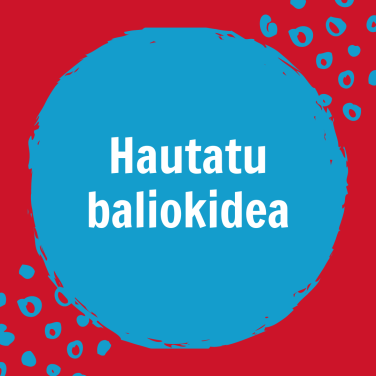
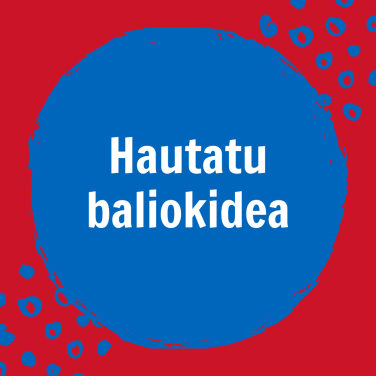
create github pages

diff --git a/assets/mobirise/css/mbr-additional.css b/assets/mobirise/css/mbr-additional.css
@@ -132,7 +132,7 @@ body {
   border-radius: 3px;
 }
 .bg-primary {
-  background-color: #149dcc !important;
+  background-color: #0066bb !important;
 }
 .bg-success {
   background-color: #f7ed4a !important;
@@ -148,8 +148,8 @@ body {
 }
 .btn-primary,
 .btn-primary:active {
-  background-color: #149dcc !important;
-  border-color: #149dcc !important;
+  background-color: #0066bb !important;
+  border-color: #0066bb !important;
   color: #ffffff !important;
 }
 .btn-primary:hover,
@@ -157,14 +157,14 @@ body {
 .btn-primary.focus,
 .btn-primary.active {
   color: #ffffff !important;
-  background-color: #0d6786 !important;
-  border-color: #0d6786 !important;
+  background-color: #003c6e !important;
+  border-color: #003c6e !important;
 }
 .btn-primary.disabled,
 .btn-primary:disabled {
   color: #ffffff !important;
-  background-color: #0d6786 !important;
-  border-color: #0d6786 !important;
+  background-color: #003c6e !important;
+  border-color: #003c6e !important;
 }
 .btn-secondary,
 .btn-secondary:active {
@@ -312,22 +312,22 @@ body {
 .btn-primary-outline,
 .btn-primary-outline:active {
   background: none;
-  border-color: #0b566f;
-  color: #0b566f;
+  border-color: #002e55;
+  color: #002e55;
 }
 .btn-primary-outline:hover,
 .btn-primary-outline:focus,
 .btn-primary-outline.focus,
 .btn-primary-outline.active {
   color: #ffffff;
-  background-color: #149dcc;
-  border-color: #149dcc;
+  background-color: #0066bb;
+  border-color: #0066bb;
 }
 .btn-primary-outline.disabled,
 .btn-primary-outline:disabled {
   color: #ffffff !important;
-  background-color: #149dcc !important;
-  border-color: #149dcc !important;
+  background-color: #0066bb !important;
+  border-color: #0066bb !important;
 }
 .btn-secondary-outline,
 .btn-secondary-outline:active {
@@ -464,7 +464,7 @@ body {
   border-color: #ffffff;
 }
 .text-primary {
-  color: #149dcc !important;
+  color: #0066bb !important;
 }
 .text-secondary {
   color: #cc1429 !important;
@@ -489,7 +489,7 @@ body {
 }
 a.text-primary:hover,
 a.text-primary:focus {
-  color: #0b566f !important;
+  color: #002e55 !important;
 }
 a.text-secondary:hover,
 a.text-secondary:focus {
@@ -547,8 +547,8 @@ a.text-black:focus {
   border-radius: 100px !important;
 }
 .mbr-gallery-filter li.active .btn {
-  background-color: #149dcc;
-  border-color: #149dcc;
+  background-color: #0066bb;
+  border-color: #0066bb;
   color: #ffffff;
 }
 .mbr-gallery-filter li.active .btn:focus {
@@ -565,11 +565,11 @@ a.text-black:focus {
 }
 a,
 a:hover {
-  color: #149dcc;
+  color: #0066bb;
 }
 .mbr-plan-header.bg-primary .mbr-plan-subtitle,
 .mbr-plan-header.bg-primary .mbr-plan-price-desc {
-  color: #b4e6f8;
+  color: #3ca6ff;
 }
 .mbr-plan-header.bg-success .mbr-plan-subtitle,
 .mbr-plan-header.bg-success .mbr-plan-price-desc {
@@ -690,7 +690,7 @@ blockquote {
   padding: 10px 0 10px 20px;
   font-size: 1.09rem;
   position: relative;
-  border-color: #149dcc;
+  border-color: #0066bb;
   border-width: 3px;
 }
 ul,
@@ -779,7 +779,7 @@ pre {
   text-align: center;
   position: relative;
   border: 2px solid #c0a375;
-  border-color: #149dcc;
+  border-color: #0066bb;
   color: #232323;
   cursor: pointer;
 }
@@ -790,7 +790,7 @@ pre {
 }
 .btn-social:hover {
   color: #fff;
-  background: #149dcc;
+  background: #0066bb;
 }
 .btn-social + .btn {
   margin-left: .1rem;
@@ -798,11 +798,11 @@ pre {
 /* Footer */
 .mbr-footer-content li::before,
 .mbr-footer .mbr-contacts li::before {
-  background: #149dcc;
+  background: #0066bb;
 }
 .mbr-footer-content li a:hover,
 .mbr-footer .mbr-contacts li a:hover {
-  color: #149dcc;
+  color: #0066bb;
 }
 .footer3 input[type="email"],
 .footer4 input[type="email"] {
@@ -1384,7 +1384,7 @@ body {
 }
 .jq-selectbox li:hover,
 .jq-selectbox li.selected {
-  background-color: #149dcc;
+  background-color: #0066bb;
   color: #ffffff;
 }
 .jq-selectbox .jq-selectbox__trigger-arrow,
@@ -1397,14 +1397,14 @@ body {
 .jq-selectbox:hover .jq-selectbox__trigger-arrow,
 .jq-number__spin.minus:hover:after,
 .jq-number__spin.plus:hover:after {
-  border-top-color: #149dcc;
-  border-bottom-color: #149dcc;
+  border-top-color: #0066bb;
+  border-bottom-color: #0066bb;
 }
 .xdsoft_datetimepicker .xdsoft_calendar td.xdsoft_default,
 .xdsoft_datetimepicker .xdsoft_calendar td.xdsoft_current,
 .xdsoft_datetimepicker .xdsoft_timepicker .xdsoft_time_box > div > div.xdsoft_current {
   color: #ffffff !important;
-  background-color: #149dcc !important;
+  background-color: #0066bb !important;
   box-shadow: none!important;
 }
 .xdsoft_datetimepicker .xdsoft_calendar td:hover,
@@ -1497,7 +1497,7 @@ body {
 .cid-rwKJmDZ3Hp {
   padding-top: 90px;
   padding-bottom: 90px;
-  background-color: #149dcc;
+  background-color: #0066bb;
 }
 .cid-rwKJmDZ3Hp P {
   color: #767676;

diff --git a/page3.html b/page3.html
@@ -41,7 +41,7 @@
 
 </section>
 
-<section class="engine"><a href="https://mobirise.info/j">website templates</a></section><section class="features17 cid-rwKK7vJP1O" id="features17-f">
+<section class="engine"><a href="https://mobirise.info/n">simple website templates</a></section><section class="features17 cid-rwKK7vJP1O" id="features17-f">
     
     
 
@@ -51,7 +51,7 @@
             <div class="card p-3 col-12 col-md-6 col-lg-2">
                 <div class="card-wrapper">
                     <div class="card-img">
-                        <img src="assets/images/esamoldeak-1-376x376.png" alt="Mobirise" title="">
+                        <img src="assets/images/esamoldeak-2-376x376.png" alt="Mobirise" title="">
                     </div>
                     <div class="card-box">
                         <h4 class="card-title pb-3 mbr-fonts-style display-7">____________________________</h4>
@@ -67,7 +67,7 @@
             <div class="card p-3 col-12 col-md-6 col-lg-2">
                 <div class="card-wrapper">
                     <div class="card-img">
-                        <img src="assets/images/definizioak-1-376x376.png" alt="Mobirise" title="">
+                        <img src="assets/images/definizioak-2-376x376.png" alt="Mobirise" title="">
                     </div>
                     <div class="card-box">
                         <h4 class="card-title pb-3 mbr-fonts-style display-7">
@@ -81,7 +81,7 @@
             <div class="card p-3 col-12 col-md-6 col-lg-2">
                 <div class="card-wrapper">
                     <div class="card-img">
-                        <img src="assets/images/sinonimoak-1-376x376.png" alt="Mobirise" title="">
+                        <img src="assets/images/sinonimoak-2-376x376.png" alt="Mobirise" title="">
                     </div>
                     <div class="card-box">
                         <h4 class="card-title pb-3 mbr-fonts-style display-7">
@@ -127,7 +127,7 @@
             <div class="card p-3 col-12 col-md-6 col-lg-2">
                 <div class="card-wrapper">
                     <div class="card-img">
-                        <img src="assets/images/saski-naskia-1-376x376.png" alt="Mobirise" title="">
+                        <img src="assets/images/saski-naskia-2-376x376.png" alt="Mobirise" title="">
                     </div>
                     <div class="card-box">
                         <h4 class="card-title pb-3 mbr-fonts-style display-7">

diff --git a/page6.html b/page6.html
@@ -40,7 +40,7 @@
 
 </section>
 
-<section class="engine"><a href="https://mobirise.info/p">web templates free download</a></section><section class="mbr-section article content1 cid-rxmgZCKqNR" id="content2-n">
+<section class="engine"><a href="https://mobirise.info/y">free html web templates</a></section><section class="mbr-section article content1 cid-rxmgZCKqNR" id="content2-n">
 
      
 

diff --git a/page5.html b/page5.html
@@ -40,7 +40,7 @@
 
 </section>
 
-<section class="engine"><a href="https://mobirise.info/v">free html templates</a></section><section class="mbr-section article content1 cid-rxg1AEUnR0" id="content2-l">
+<section class="engine"><a href="https://mobirise.info/i">free site creation software</a></section><section class="mbr-section article content1 cid-rxg1AEUnR0" id="content2-l">
 
      
 

diff --git a/page1.html b/page1.html
@@ -41,7 +41,7 @@
 
 </section>
 
-<section class="engine"><a href="https://mobirise.info/d">free site maker</a></section><section class="mbr-section article content1 cid-rwBkqY90sw" id="content2-a">
+<section class="engine"><a href="https://mobirise.info/o">portfolio site templates</a></section><section class="mbr-section article content1 cid-rwBkqY90sw" id="content2-a">
 
      
 

diff --git a/page2.html b/page2.html
@@ -41,7 +41,7 @@
 
 </section>
 
-<section class="engine"><a href="https://mobirise.info/e">make your own website</a></section><section class="mbr-section article content1 cid-rwBoW3yzx2" id="content2-c">
+<section class="engine"><a href="https://mobirise.info/f">simple web builder</a></section><section class="mbr-section article content1 cid-rwBoW3yzx2" id="content2-c">
 
      
 

diff --git a/index.html b/index.html
@@ -41,7 +41,7 @@
 
 </section>
 
-<section class="engine"><a href="https://mobirise.info/t">amp templates</a></section><section class="mbr-section article content1 cid-rwbB700ua3" id="content2-7">
+<section class="engine"><a href="https://mobirise.info/c">free website builder</a></section><section class="mbr-section article content1 cid-rwbB700ua3" id="content2-7">
 
      
 

diff --git a/page4.html b/page4.html
@@ -41,7 +41,7 @@
 
 </section>
 
-<section class="engine"><a href="https://mobirise.info/p">site templates free download</a></section><section class="features2 cid-rx9nJuc1IH" id="features2-i">
+<section class="engine"><a href="https://mobirise.info/g">build your own site</a></section><section class="features2 cid-rx9nJuc1IH" id="features2-i">
 
     
 
